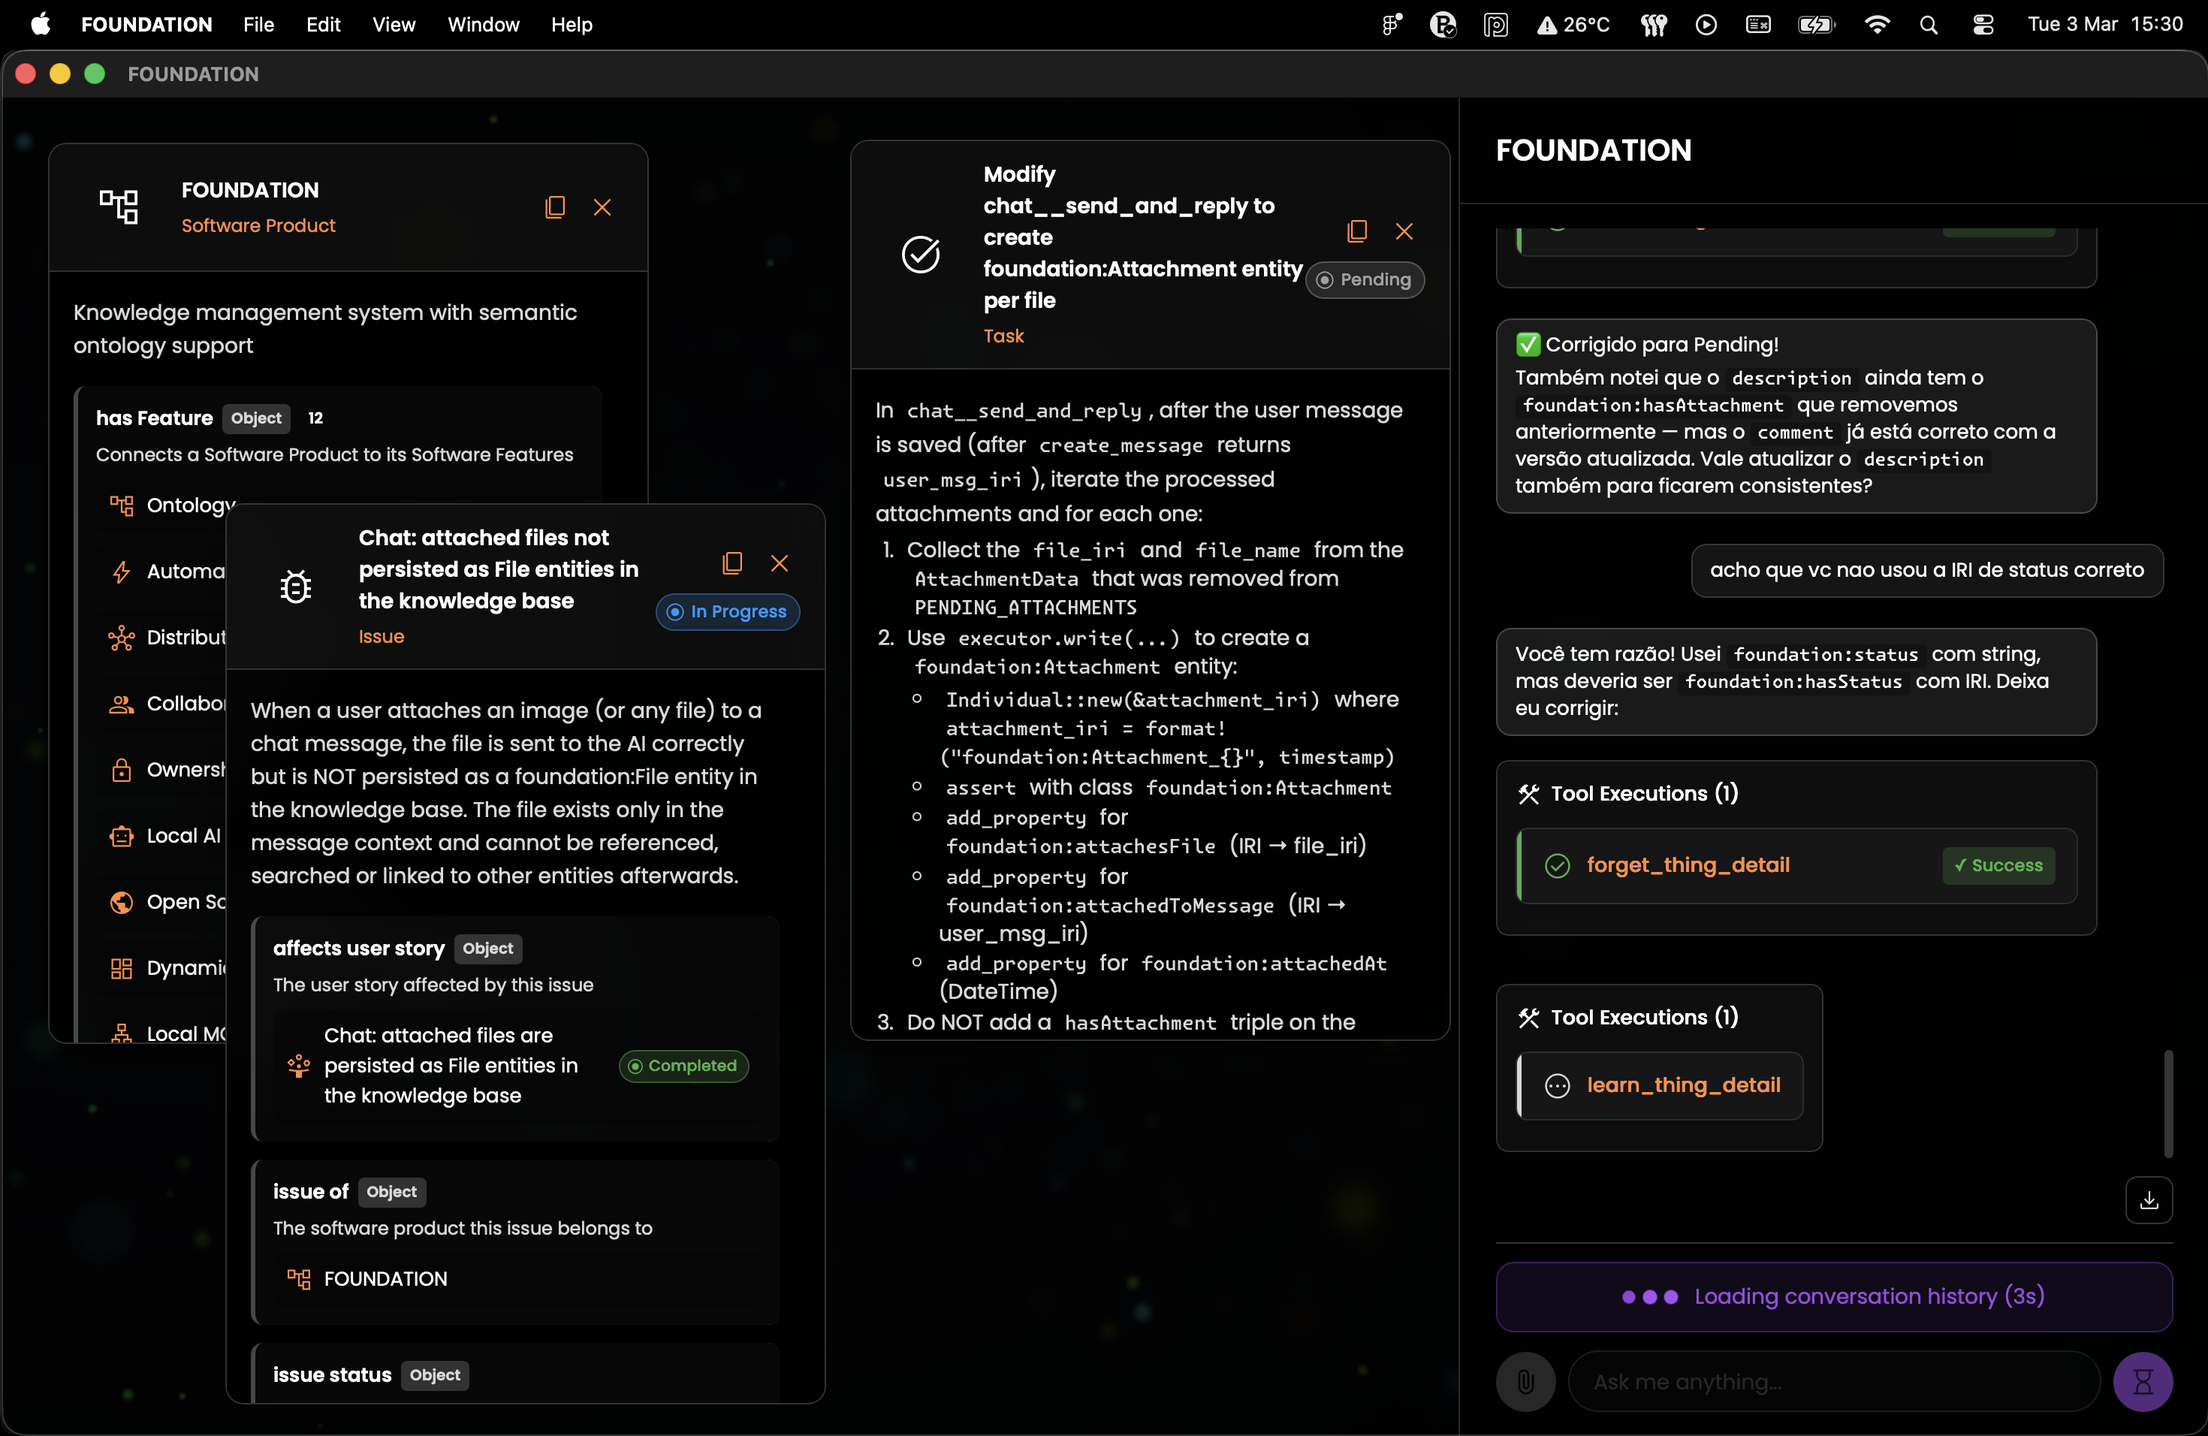
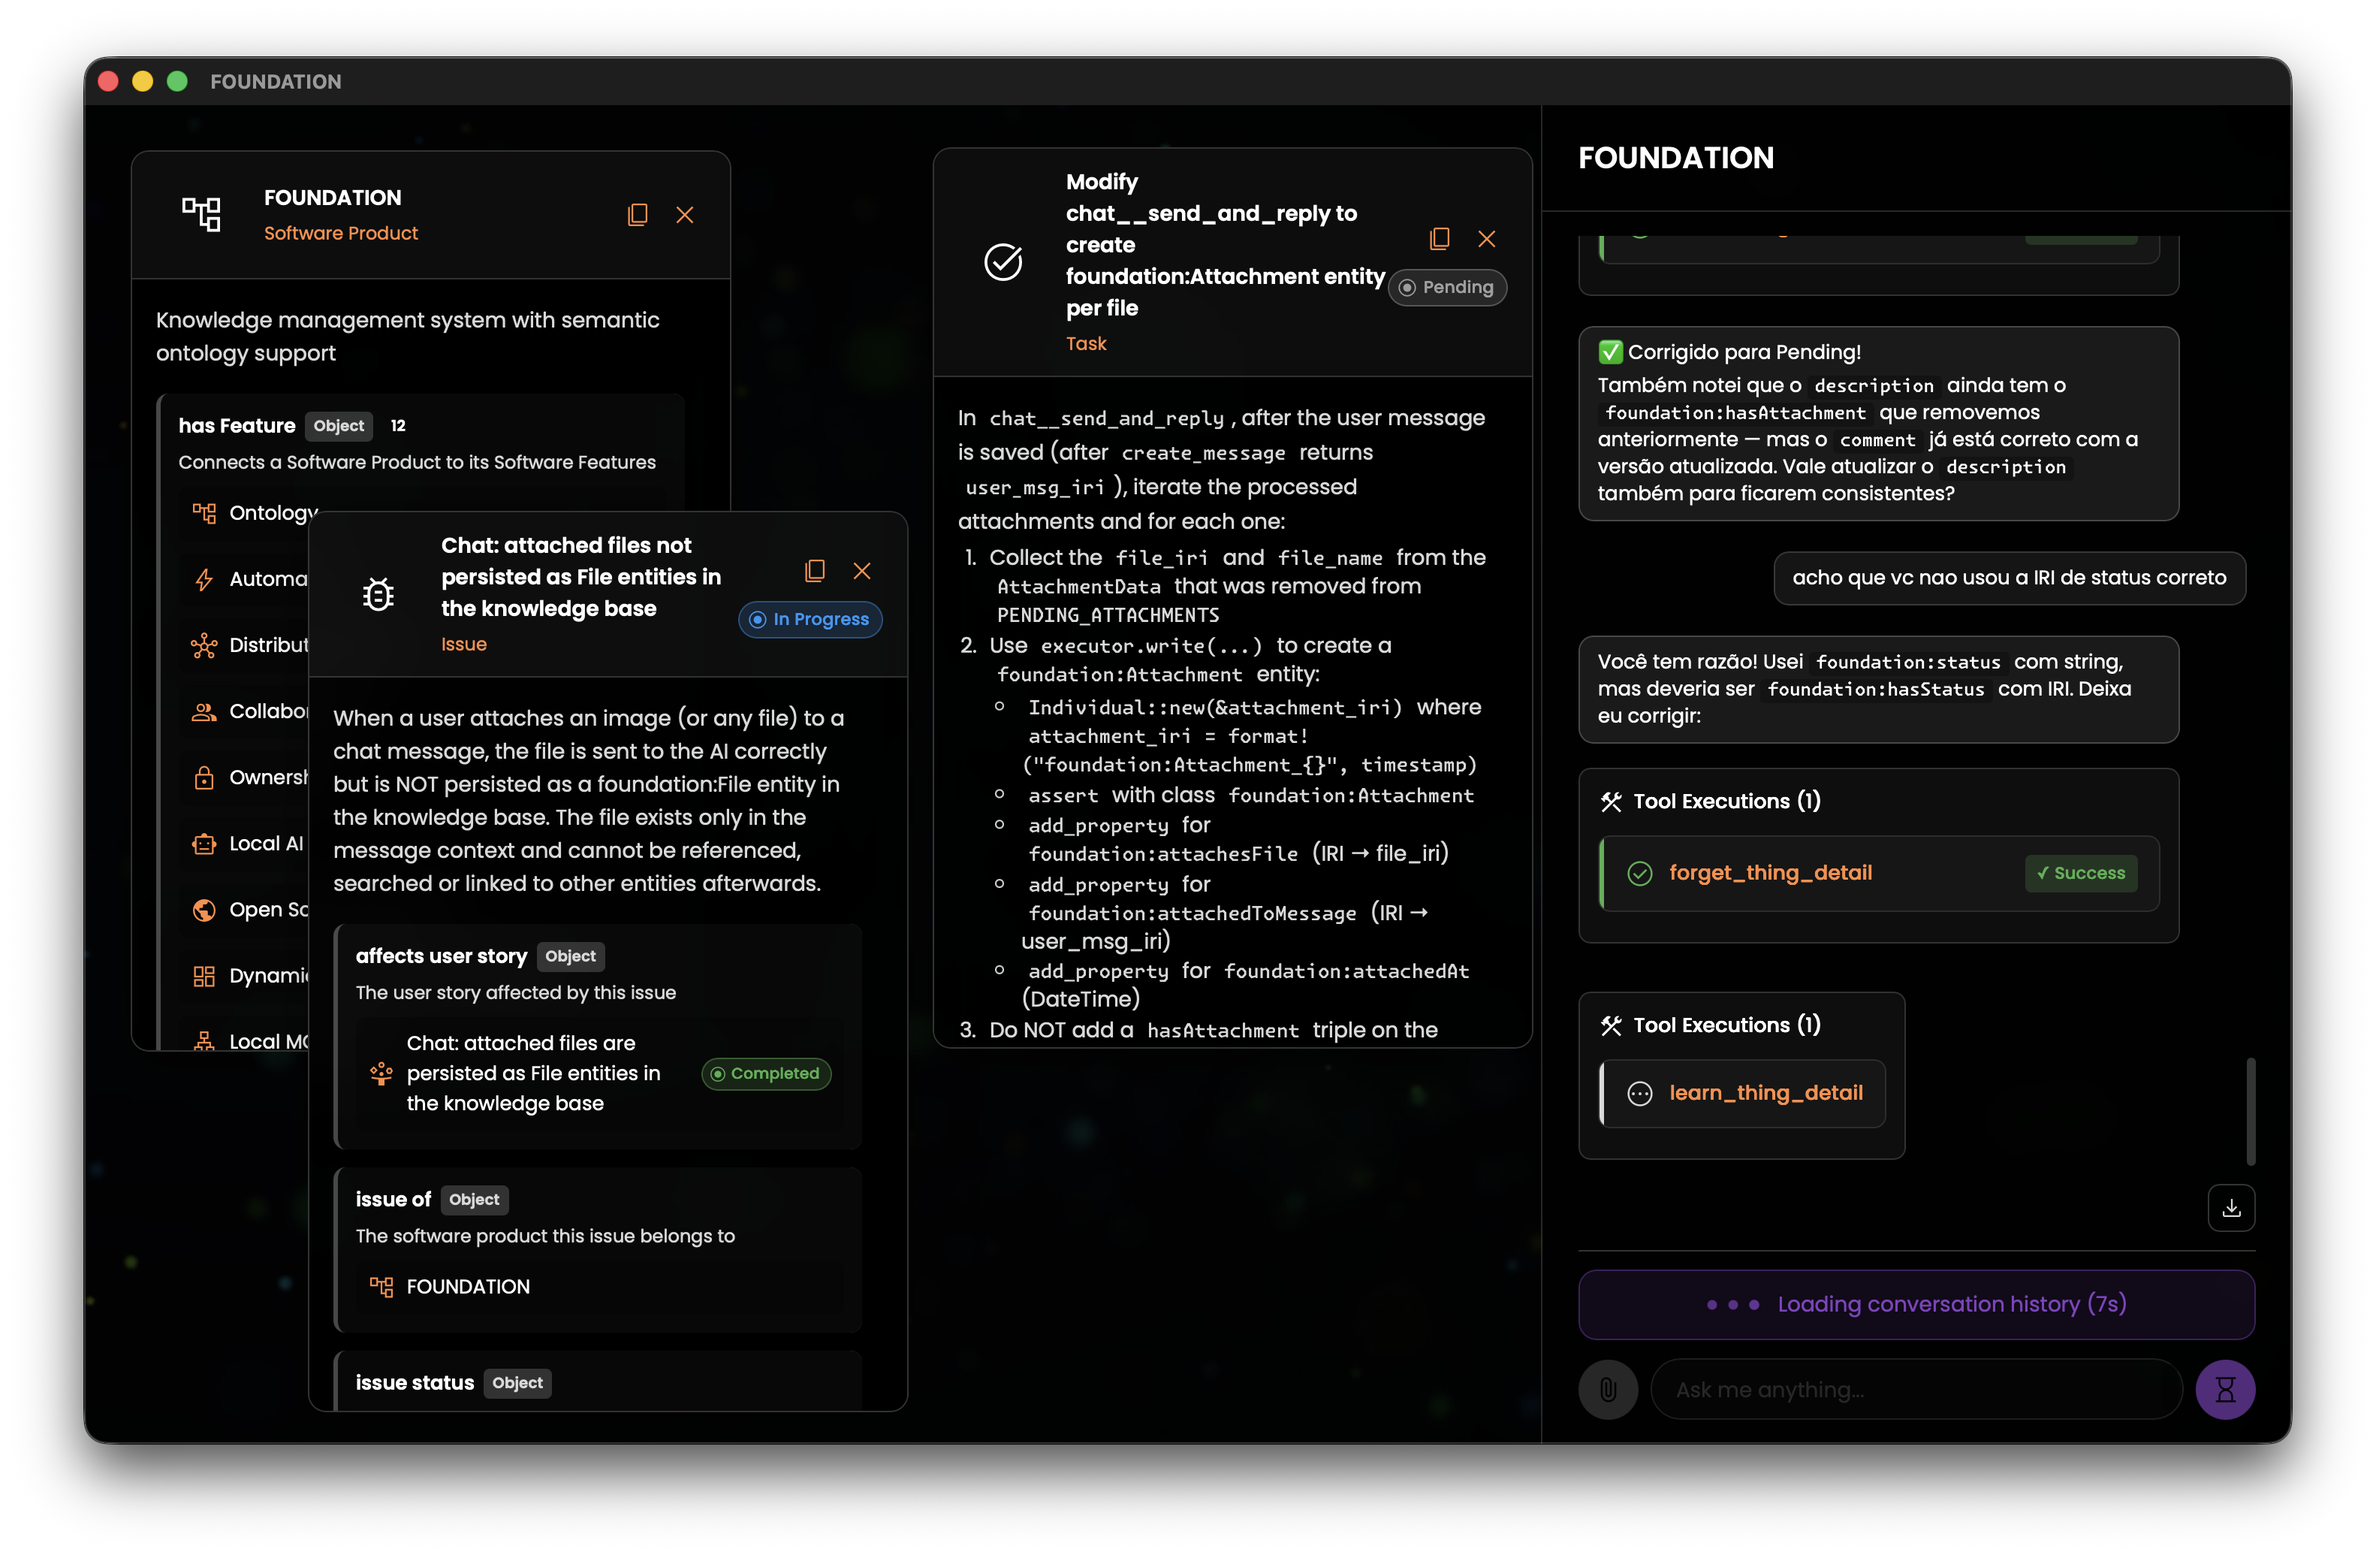
chore: release v0.5.0

diff --git a/.claude/skills/release/SKILL.md b/.claude/skills/release/SKILL.md
@@ -1,0 +1,142 @@
+---
+name: release
+description: Creates a new FOUNDATION release — bumps version, updates CHANGELOG, SoftwareRelease.ttl, README, commits, tags, and publishes a GitHub release.
+disable-model-invocation: false
+---
+
+# Release FOUNDATION
+
+## Current Version
+!`grep '^version' src-tauri/Cargo.toml | head -1`
+
+## Recent Commits (since last tag)
+!`git log $(git describe --tags --abbrev=0 2>/dev/null || echo "HEAD~20")..HEAD --oneline 2>/dev/null || git log --oneline -15`
+
+## Last Release Entry
+!`tail -n 20 core-ontology/SoftwareRelease.ttl`
+
+---
+
+## Instructions
+
+### Step 1 — Determine the next version
+
+Analyze the commits since the last tag:
+- Any `feat:` commit → **minor** bump (e.g. `0.4.1` → `0.5.0`)
+- Only `fix:` / `refactor:` / `chore:` commits → **patch** bump (e.g. `0.5.0` → `0.5.1`)
+- Breaking changes → **major** bump
+
+State the new version clearly before proceeding.
+
+### Step 2 — Update version files
+
+Update the version string in **both** files atomically (read each before editing):
+- `src-tauri/Cargo.toml` — `version = "X.Y.Z"`
+- `package.json` — `"version": "X.Y.Z"`
+
+### Step 3 — Update CHANGELOG.md
+
+Prepend a new entry at the top of `CHANGELOG.md` (after the header), following Keep a Changelog format:
+
+```markdown
+## [X.Y.Z] - YYYY-MM-DD
+
+### Added
+- ...
+
+### Changed
+- ...
+
+### Fixed
+- ...
+
+### Refactored
+- ...
+```
+
+Only include sections that have content. Derive entries from the commit list.
+
+### Step 4 — Update core-ontology/SoftwareRelease.ttl
+
+Append a new individual at the end of the file:
+
+```turtle
+foundation:FoundationRelease_X_Y_Z a foundation:SoftwareRelease , owl:NamedIndividual ;
+    rdfs:label "FOUNDATION vX.Y.Z" ;
+    rdfs:comment "<one-line summary>" ;
+    foundation:releaseOf foundation:FoundationProduct ;
+    foundation:versionNumber "X.Y.Z" ;
+    foundation:licenseType "MIT" ;
+    foundation:releaseDate "YYYY-MM-DD"^^xsd:date ;
+    foundation:changelog "<semicolon-separated list of commit subjects>" .
+```
+
+Use today's date from the system context (`currentDate`).
+
+### Step 5 — Query features from Foundation
+
+Start from the product to get only features actually linked to it:
+
+1. Call `remember_thing(iri: "foundation:FoundationProduct")` to get all `foundation:hasFeature` values.
+2. For each feature IRI, call `remember_thing(iri)` to get its label, comment, and status.
+3. Include features with status `foundation:Completed` or `foundation:InProgress`. Skip `foundation:Pending`.
+4. Use the `comment` field as the one-line description (truncate/summarize if too long).
+5. Sort entries alphabetically by label.
+6. Map status to display tag:
+   - `foundation:Completed` → `` `[finalizado]` ``
+   - `foundation:InProgress` → `` `[em desenvolvimento]` ``
+
+### Step 6 — Update README.md
+
+- Update `**Version X.Y.Z**` line
+- Update download badge URLs to the new version
+- Update the Changelog badge version label
+- If installers are not yet built, keep the download badges commented out
+- Replace (or create) the `## Features` section **between the badges and `## Quick Start`** with the list from Step 5:
+
+```markdown
+## Features
+
+- **Feature Name**: one-line description. `[finalizado]`
+- **Feature Name**: one-line description. `[em desenvolvimento]`
+```
+
+One entry per feature, single sentence, status tag at the end.
+
+### Step 7 — Commit (all files in one amend-friendly commit)
+
+Stage all changed files **by name** (never `git add -A`):
+```
+git add src-tauri/Cargo.toml src-tauri/Cargo.lock package.json CHANGELOG.md core-ontology/SoftwareRelease.ttl README.md
+```
+
+Commit with:
+```
+chore: release vX.Y.Z
+```
+
+### Step 8 — Tag and push
+
+```bash
+git tag vX.Y.Z
+git push
+git push origin vX.Y.Z
+```
+
+### Step 9 — GitHub Release
+
+```bash
+gh release create vX.Y.Z --title "FOUNDATION vX.Y.Z" --notes "..."
+```
+
+Release notes should mirror the CHANGELOG entry in condensed form.
+
+---
+
+## Rules
+
+- **Never amend a commit that has already been pushed and tagged** without explicit user request
+- **Always read files before editing** them
+- If `Cargo.lock` changed (it will, due to version bump), include it in the same commit
+- The tag must point to the release commit — if a follow-up commit is needed, move the tag with `git tag -d` + recreate + `git push origin --force vX.Y.Z`
+- Confirm the final version with the user if the bump type is ambiguous

diff --git a/README.md b/README.md
@@ -2,18 +2,32 @@
 
 ![FOUNDATION Screenshot](static/Screenshot1.png)
 
-**Version 0.1.0 (Alpha)** - AI-powered ontology management system with long-term memory
+**Version 0.5.0** - AI-powered ontology management system with long-term memory
 
-[![Download for macOS](https://img.shields.io/badge/Download-macOS-blue?style=for-the-badge&logo=apple)](https://github.com/danielterra/FOUNDATION/releases/latest/download/FOUNDATION_0.1.0_universal.dmg)
-[![Download for Windows](https://img.shields.io/badge/Download-Windows-blue?style=for-the-badge&logo=windows)](https://github.com/danielterra/FOUNDATION/releases/latest/download/FOUNDATION_0.1.0_x64_en-US.msi)
-[![Download for Linux](https://img.shields.io/badge/Download-Linux-blue?style=for-the-badge&logo=linux)](https://github.com/danielterra/FOUNDATION/releases/latest/download/foundation_0.1.0_amd64.AppImage)
+<!-- installers not yet available for this release
+[![Download for macOS](https://img.shields.io/badge/Download-macOS-blue?style=for-the-badge&logo=apple)](https://github.com/danielterra/FOUNDATION/releases/latest/download/FOUNDATION_0.5.0_universal.dmg)
+[![Download for Windows](https://img.shields.io/badge/Download-Windows-blue?style=for-the-badge&logo=windows)](https://github.com/danielterra/FOUNDATION/releases/latest/download/FOUNDATION_0.5.0_x64_en-US.msi)
+[![Download for Linux](https://img.shields.io/badge/Download-Linux-blue?style=for-the-badge&logo=linux)](https://github.com/danielterra/FOUNDATION/releases/latest/download/foundation_0.5.0_amd64.AppImage)
+-->
+[![Changelog](https://img.shields.io/badge/Changelog-v0.5.0-informational?style=for-the-badge)](https://github.com/danielterra/FOUNDATION/blob/main/CHANGELOG.md)
+
+## Features
+
+- **Automation**: Reacts to every data change with real workflows — connect to APIs, orchestrate multi-step processes, and trigger complex automations without manual intervention. `[em desenvolvimento]`
+- **Dynamic Blackboard**: Visual canvas where multiple widgets display entities and their relationships simultaneously. `[em desenvolvimento]`
+- **Integrated AI Chat**: Built-in AI assistant with full access to the personal knowledge base, persistent across sessions. `[em desenvolvimento]`
+- **Local MCP Server**: Exposes a local MCP server so external AI clients (Claude Code, etc.) can access the same memory and tools as the built-in assistant. `[finalizado]`
+- **Ontology**: Structures data through formal relationships between entities using a shared base ontology — enabling different FOUNDATION instances to understand each other's data without integrations. `[em desenvolvimento]`
+- **Open Source and Free**: GNU GPL licensed — no subscriptions, no vendor lock-in, no corporation owns it. `[finalizado]`
+- **Ownership**: Runs locally on your machine — your data, your control, no Big Tech servers required. `[finalizado]`
 
 ## Quick Start
 
-1. **Download** the installer for your platform (links above)
-2. **Install** and launch FOUNDATION
-3. **Configure** your Claude API key (get one at [console.anthropic.com](https://console.anthropic.com/))
-4. **Start chatting** with your AI assistant that remembers everything!
+> **Note:** Installers are not yet available for this release. To run FOUNDATION, build from source (see [Development](#development) below).
+
+1. **Clone** the repository and run `npm run tauri dev`
+2. **Configure** your Claude API key (get one at [console.anthropic.com](https://console.anthropic.com/))
+3. **Start chatting** with your AI assistant that remembers everything!
 
 ## A SOLID FOUNDATION FOR FREEDOM
 
@@ -123,7 +137,7 @@ npm run tauri:build:linux    # Linux x64
 ./scripts/build-release.sh
 ```
 
-**Note**: To build for Windows and Linux from macOS, use GitHub Actions (push a tag like `v0.1.0`) or build on each platform natively.
+**Note**: To build for Windows and Linux from macOS, use GitHub Actions (push a tag like `v0.5.0`) or build on each platform natively.
 
 ### Important Paths
 

diff --git a/CHANGELOG.md b/CHANGELOG.md
@@ -5,6 +5,43 @@ All notable changes to FOUNDATION will be documented in this file.
 The format is based on [Keep a Changelog](https://keepachangelog.com/en/1.0.0/),
 and this project adheres to [Semantic Versioning](https://semver.org/spec/v2.0.0.html).
 
+## [0.5.0] - 2026-03-05
+
+### Added
+
+- **Multi-conversation support**: create and list named conversations; all chat commands accept an optional `conversation_id` parameter (defaults to `foundation:MainChatConversation` for backward compatibility)
+- **API call cost tracking**: every Claude API call is persisted as a `foundation:AIAPICall` entity with input/output/cache tokens and estimated cost based on the model's pricing
+- **Atomic property setting on thing creation**: `learn_thing` now accepts a `properties` array to set multiple properties in a single transactional call; rolled back on any failure
+- **`allowedStatus` validation**: setting `foundation:hasStatus` on a thing is rejected if the status IRI is not in the concept's `allowedStatus` list
+- **`allowedStatuses` in concept queries**: `remember_concept` now returns the `allowedStatuses` array alongside `allowedValues`
+- **`update_concept` supports `allowed_statuses`**: AI can set or replace the full list of allowed statuses for a concept
+- **Date range filtering in `remember_things`**: new `from_millis` / `to_millis` parameters with inclusive semantics and timezone-aware documentation
+- **Comparison operators in `remember_things_by_details`**: properties can now use `=`, `>=`, `<=`, `>`, `<` operators
+- **Multi-domain support for connection types**: `learn_connection_type` `domain` parameter now accepts a string or an array of strings
+- **xsd datatype validation on literals**: storing a literal with `xsd:dateTime`, `xsd:date`, `xsd:integer`, `xsd:decimal`, or `xsd:boolean` datatype now validates the value format at write time
+- **Status icon inheritance**: `resolve_status_appearance` walks `foundation:parentStatus` recursively to inherit `icon` and `color` when absent on the status itself; `StatusInfo` now includes `icon`
+- **`chat__create_conversation` / `chat__list_conversations`** Tauri commands exposed to the frontend
+
+### Changed
+
+- **DateTime storage unified to Unix milliseconds (i64)**: `Object::DateTime` is now stored and read as a Unix millisecond timestamp; ISO 8601 strings are no longer accepted as `xsd:dateTime` literals
+- **Cache stable index extended**: prompt caching now marks the message at `len - 6` (instead of `len - 2`) as the stable cache point, improving cache hit rates in long conversations
+- **Tool chip UI redesigned**: tool executions in chat are now shown as compact inline chips instead of full accordion panels; action buttons moved inside the message bubble on hover
+- **`remember_things` query**: `prop_retracted_filter` is now applied per-property instead of globally, fixing incorrect results when `include_retracted` is false
+
+### Fixed
+
+- Removed no-op `.map_err(|e| e)` in conversation recovery path
+- Removed dead `has_tool_result` condition in `chat__recover_pending_tools`
+- `chat__recover_pending_tools` now scans all `foundation:AIConversation` individuals in addition to the legacy default conversation
+
+### Refactored
+
+- AI tool functions reorganized into `concept`, `thing`, and `detail` submodules
+- `parse_timestamp` helper extracted to eliminate duplicated timestamp parsing across chat commands
+
+---
+
 ## [0.1.0] - 2026-02-26 (Alpha Release)
 
 ### 🎉 Initial Release
